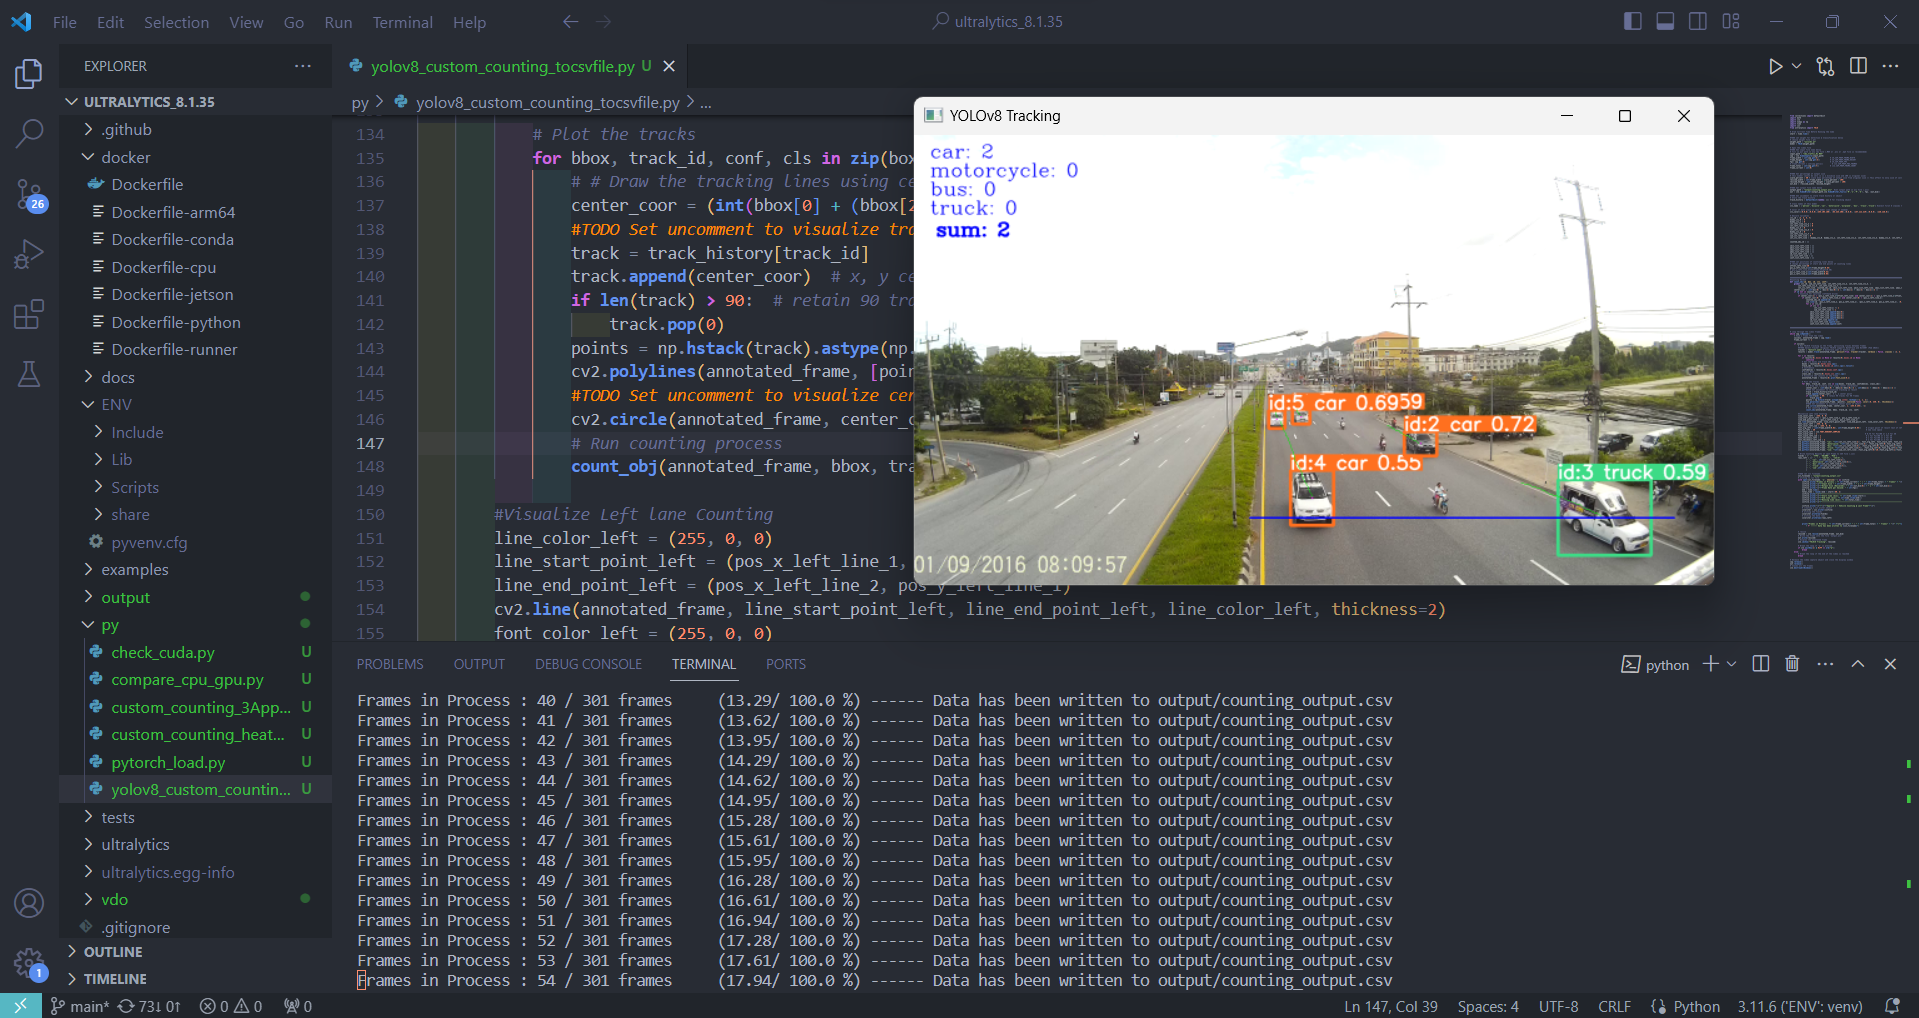
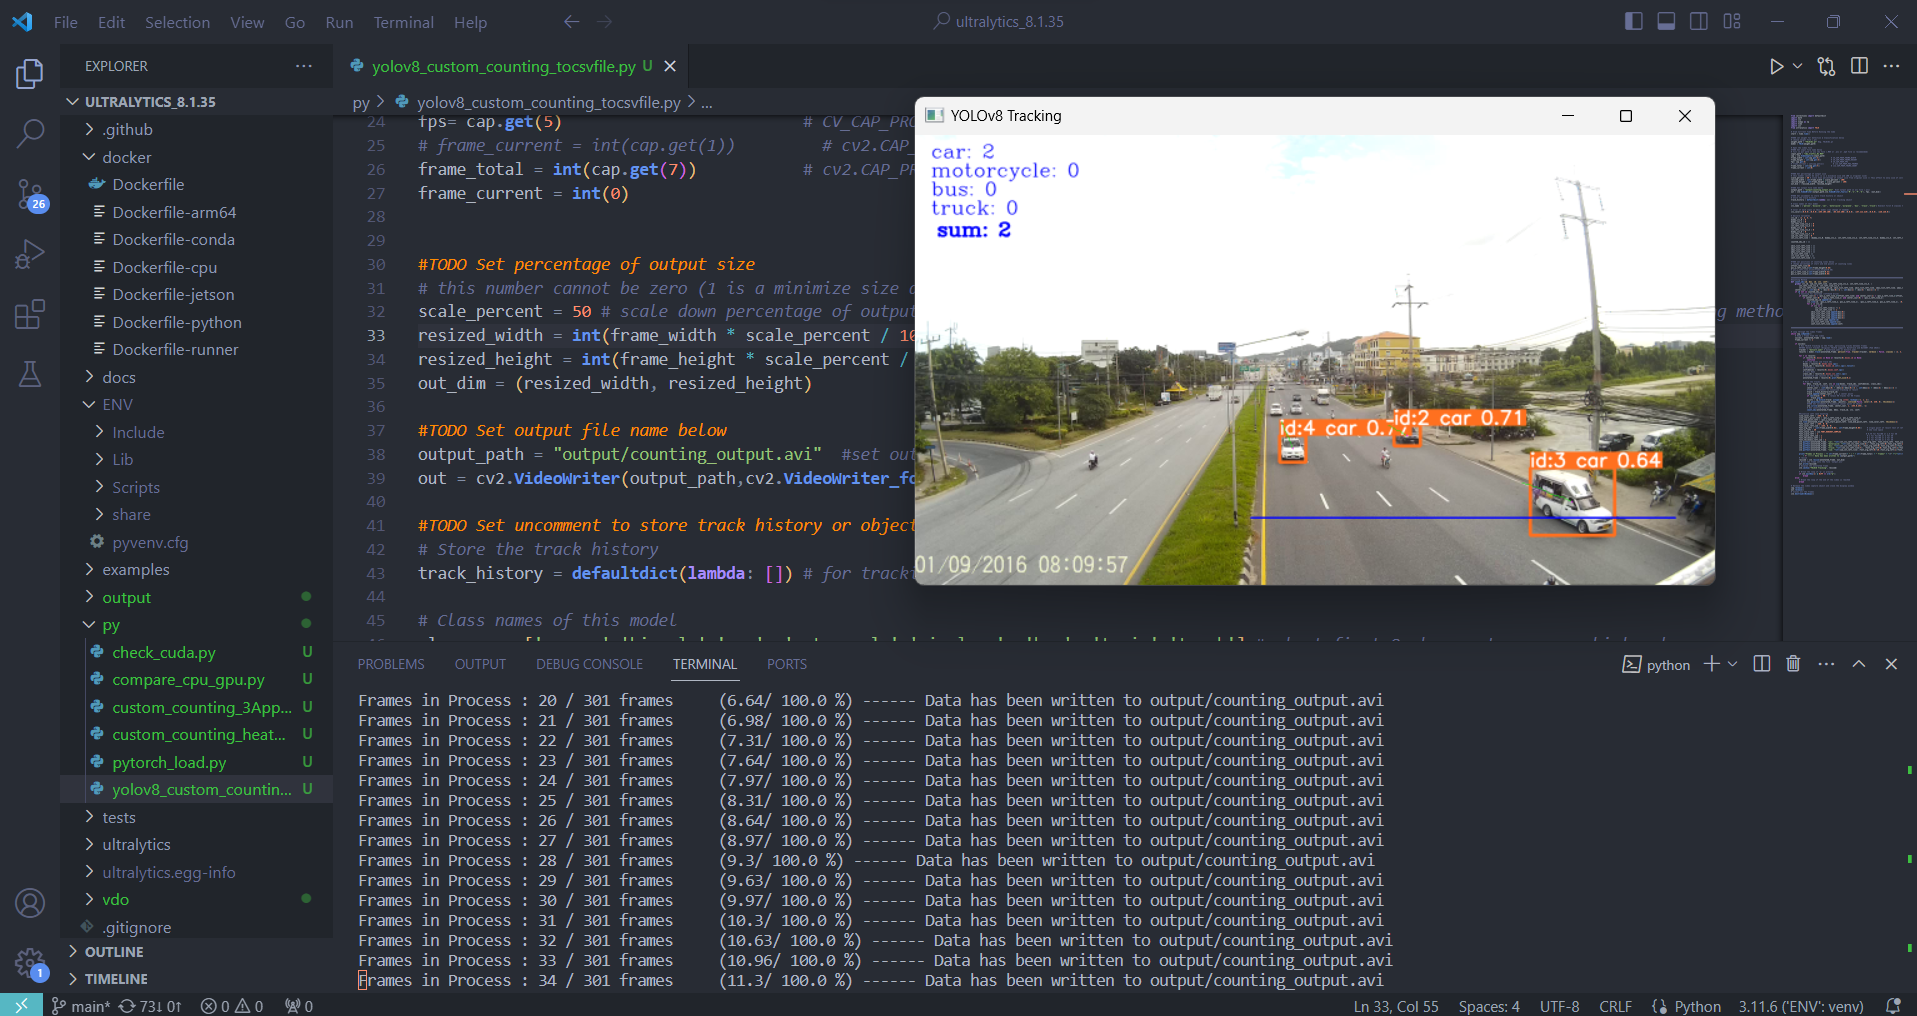
update

diff --git a/py_files/yolov8_custom_counting_tocsvfile.py b/py_files/yolov8_custom_counting_tocsvfile.py
@@ -167,6 +167,8 @@ while cap.isOpened():
         cv2.putText(annotated_frame, "truck: "+str(cnt_cls_left_line[7]), (font_org_left[0],font_org_left[1]+font_nl_left*3), font_style_left, font_scale_left, font_color_left, font_thickness_left, cv2.LINE_AA)
         cv2.putText(annotated_frame, "sum: "+str(sum_cnt_left_line),(font_org_left[0]+10,(font_org_left[1]+font_nl_left*4+5)), font_style_left , font_scale_left_sum , font_color_left_sum , font_thickness_left_sum , cv2.LINE_AA)
 
+        print("Frames in Process : "+ str(frame_current)+ " / " + str(frame_total) + " frames" + "\t" +"("+str(round(frame_current/frame_total*100,2))+ "/ 100.0 %)"\
+            + f" ------ Data has been written to {output_path}")
         # resize 
         resized = cv2.resize(annotated_frame, out_dim)
         # Write the frame into the file 'output.avi'
